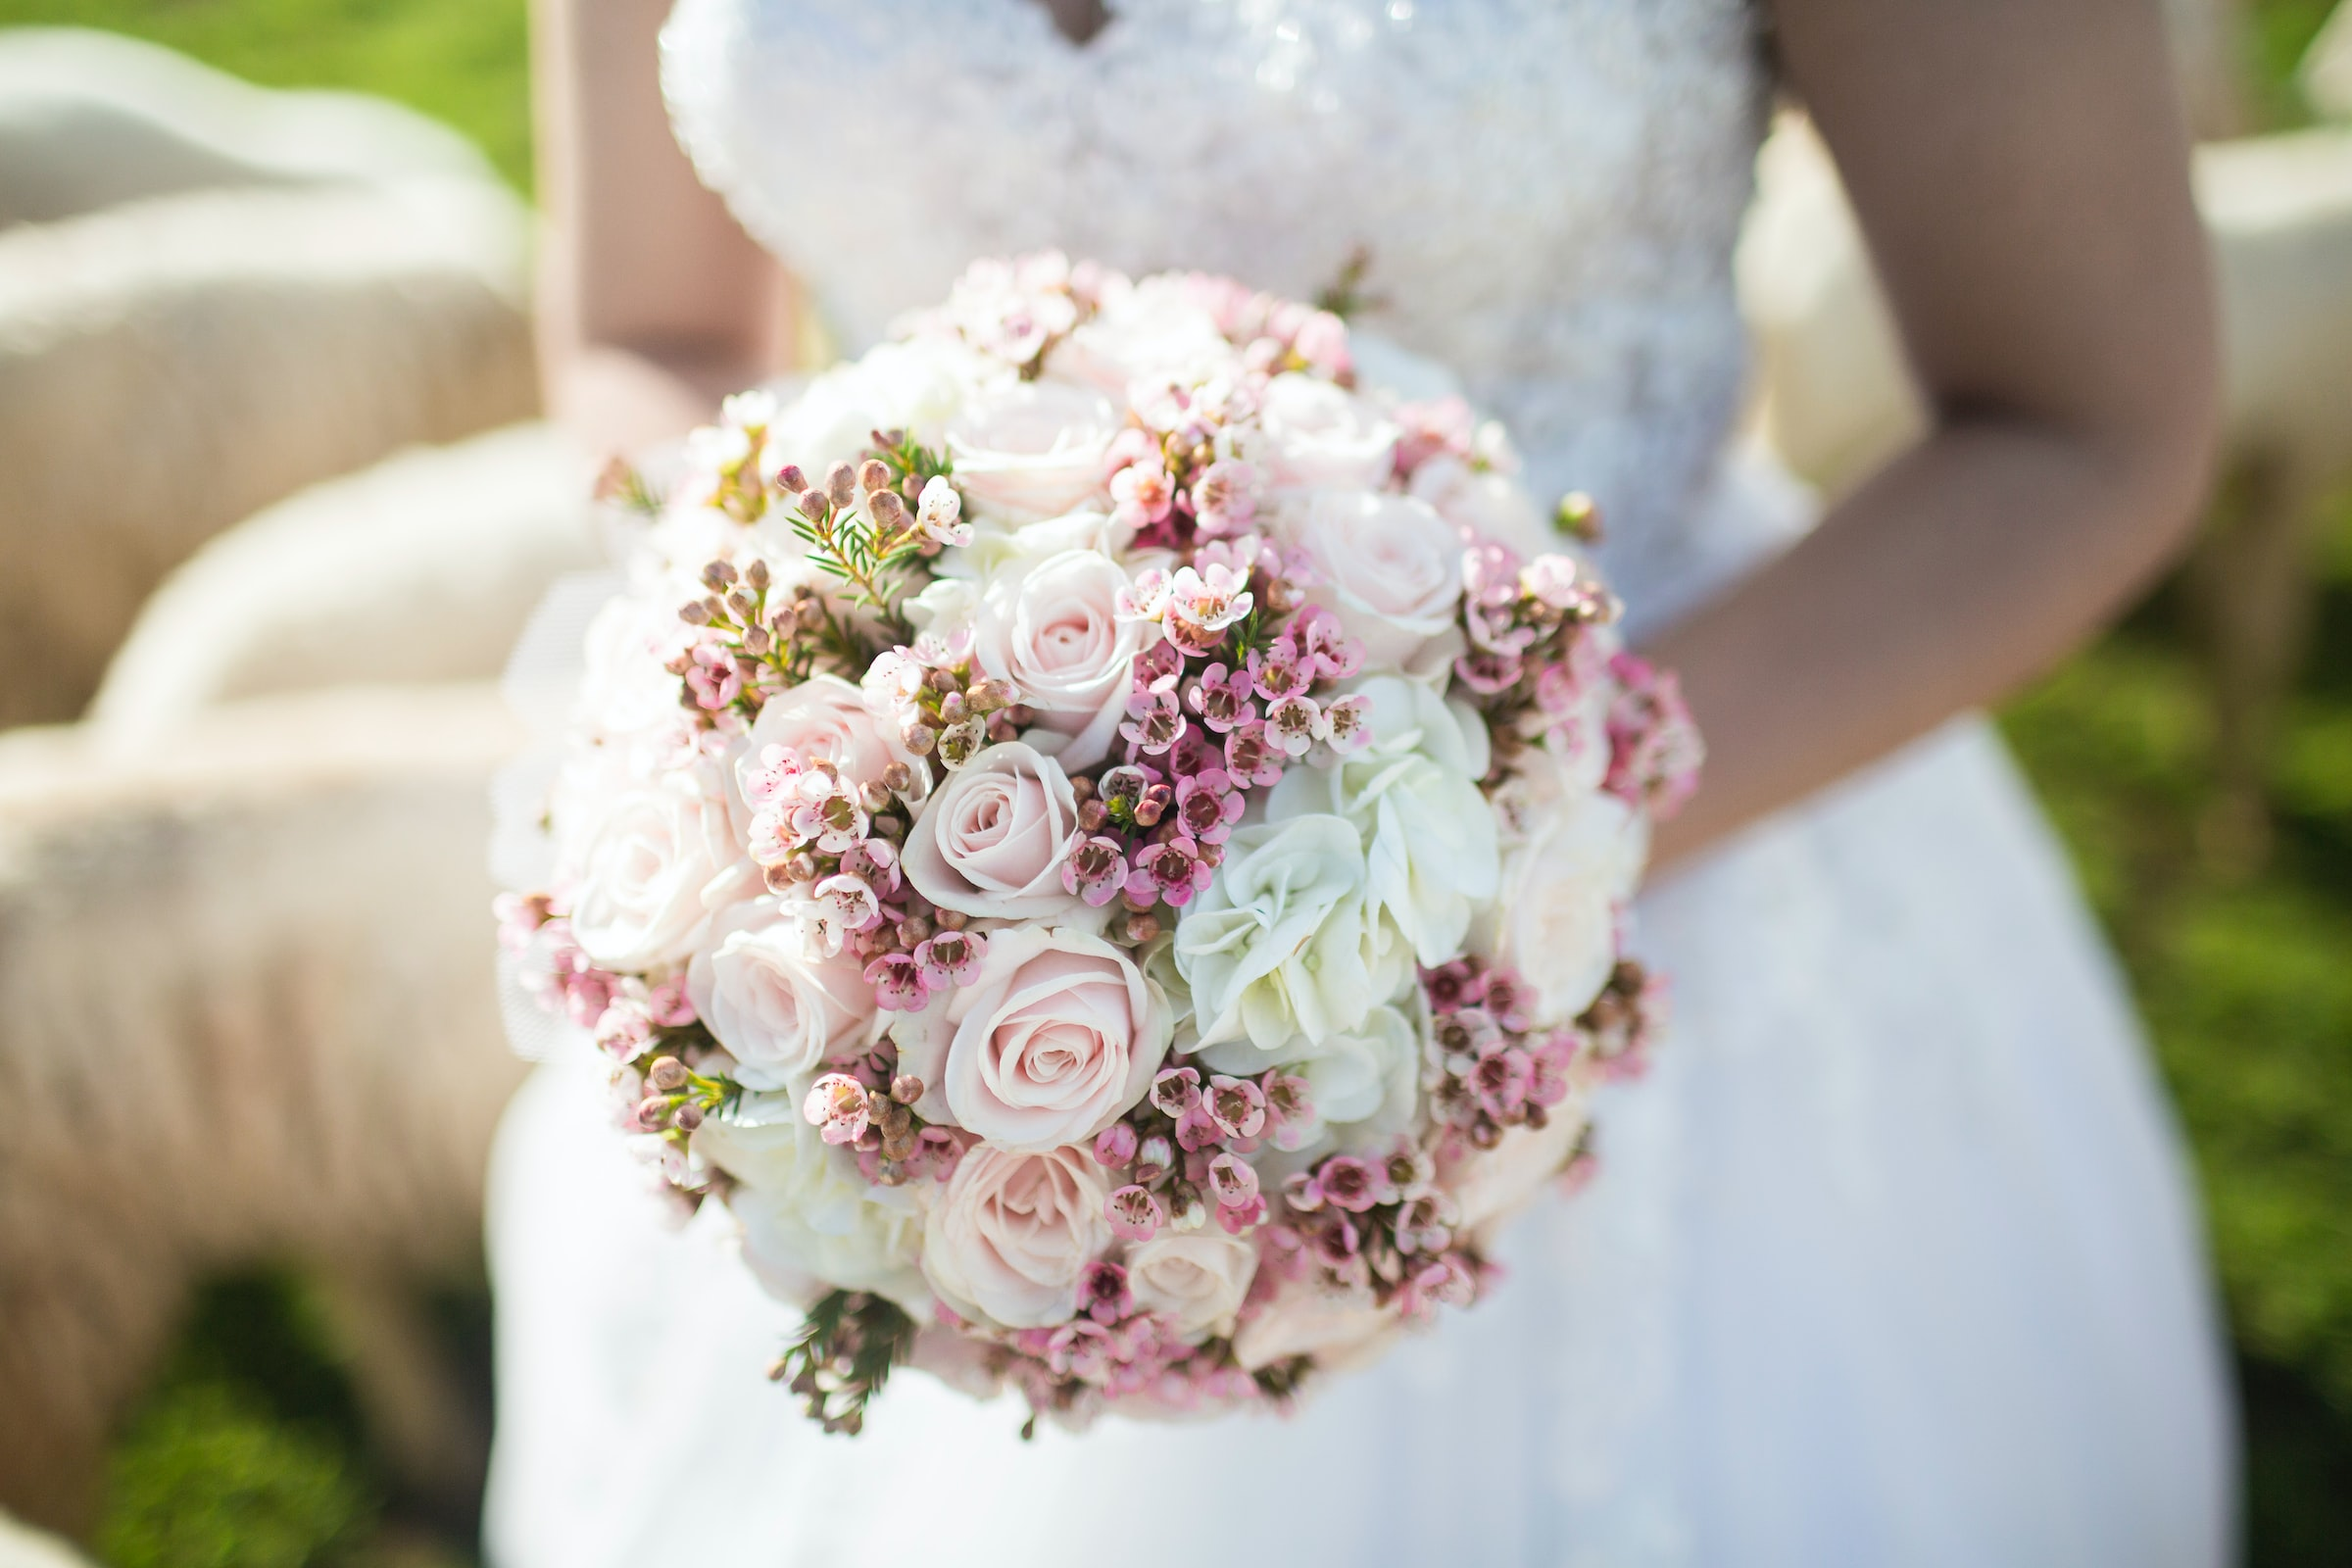
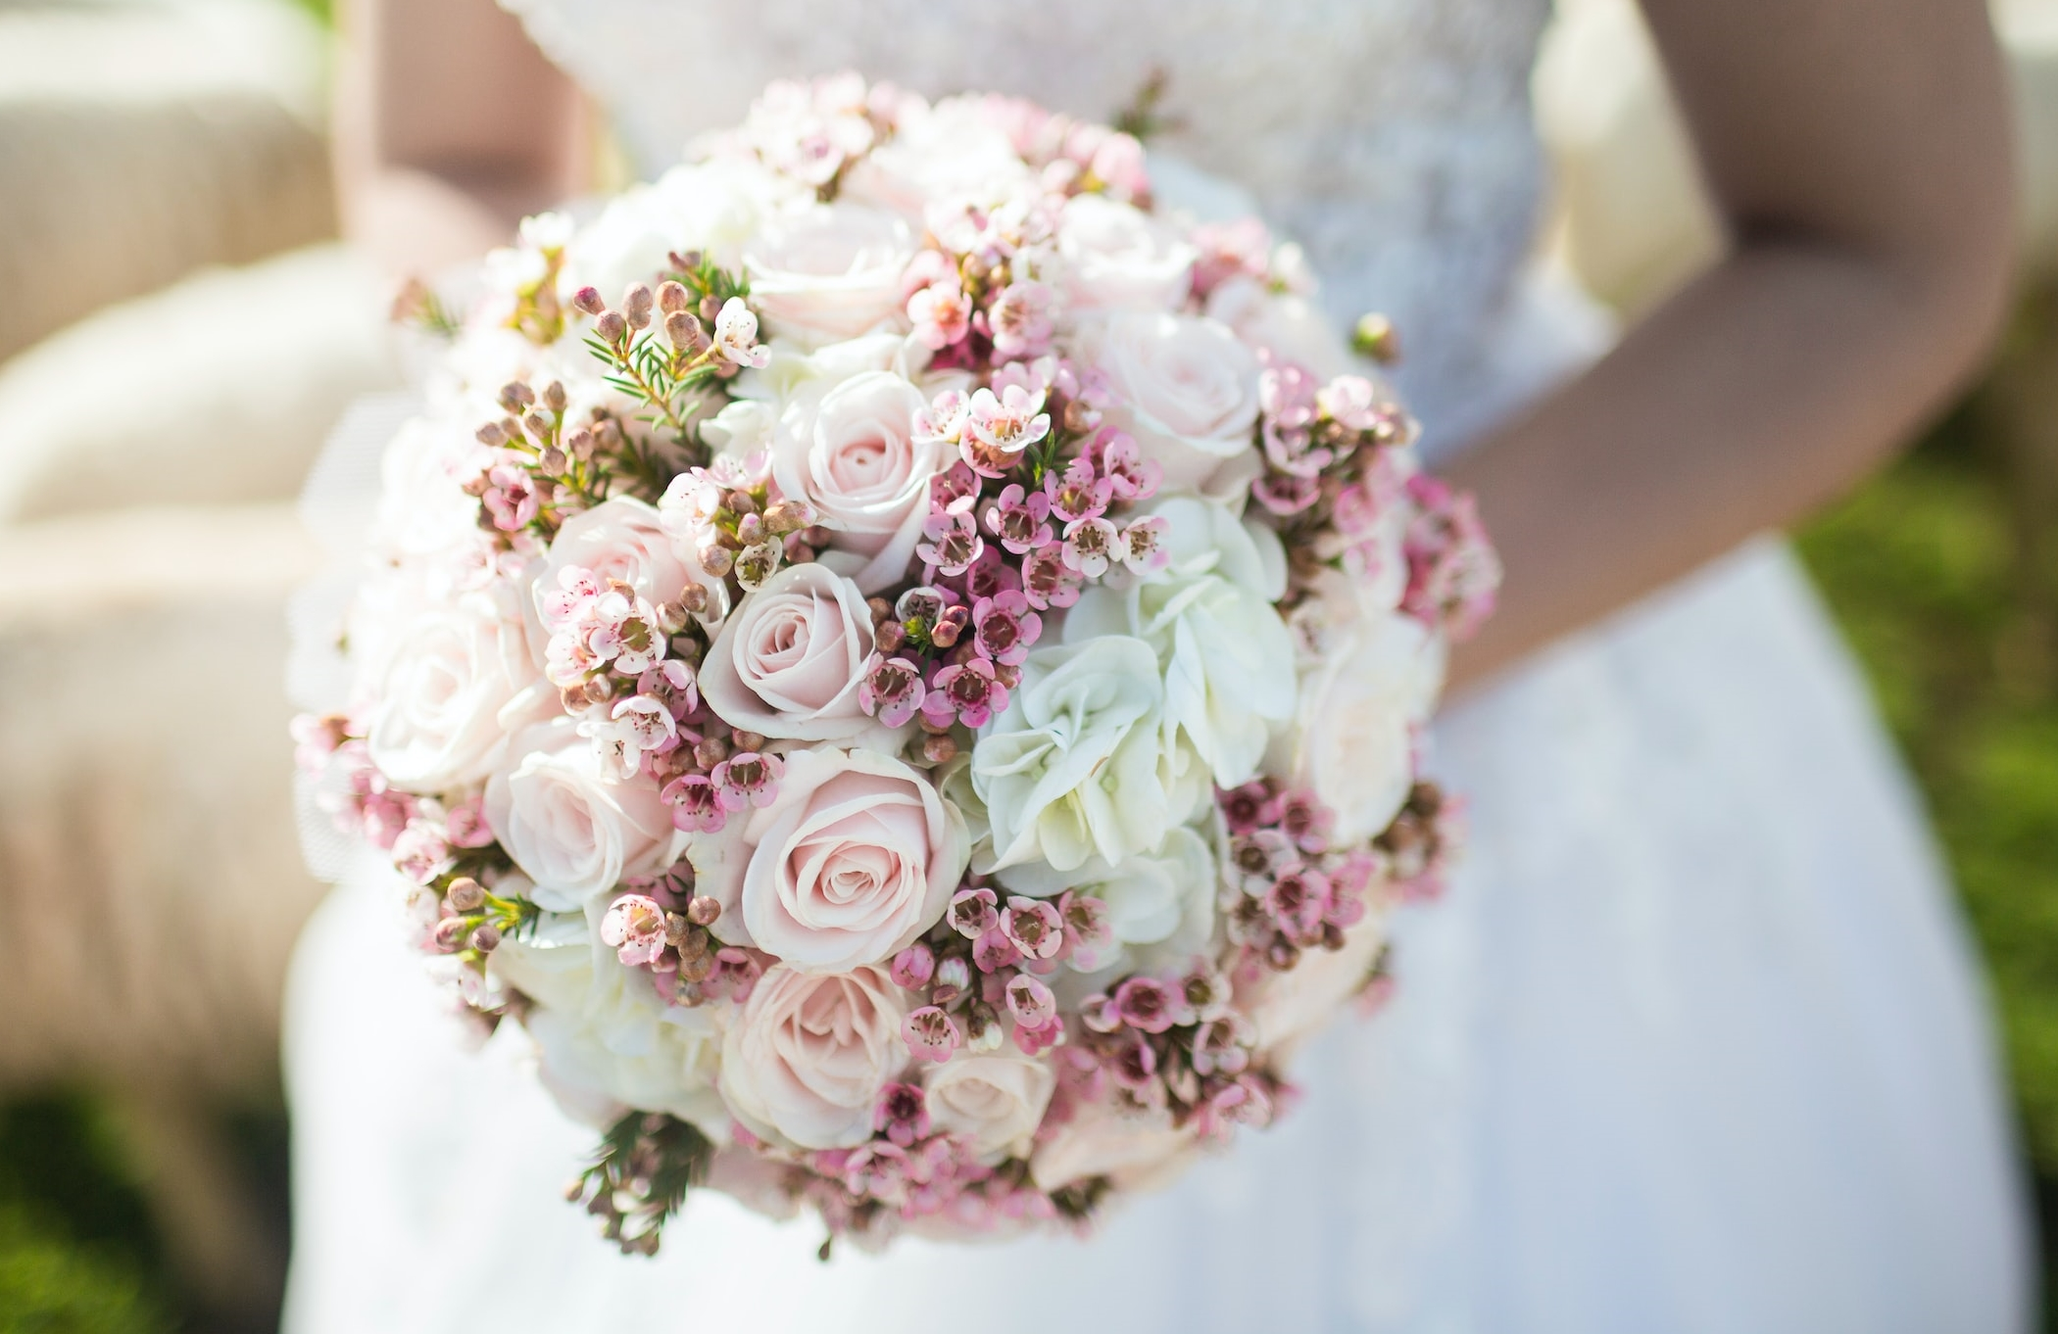
mobile and tablet  responsive for home

diff --git a/index.html b/index.html
@@ -125,43 +125,51 @@
         <div class="carousel-inner">
           <div class="carousel-item active" data-bs-interval="10000">
             <img
-              src="./images/home/wedding_bunch_desktop.jpg"
-              class="desktop-img  w-100"
+              src="./images/home/wedding_bunch_desktop2.jpg"
+              class="desktop-img w-100"
               alt="composition florale pour un mariage"
             />
             <img
               src="./images/home/wedding_bunch_mobile.jpg"
-              class="mobile-img  w-100"
+              class="mobile-img w-100"
               alt="composition florale pour un mariage"
             />
-            <div class="carousel-caption d-none d-md-block">
+            <div class="overlay"></div>
+            <div class="carousel-caption d-md-block">
               <h1>Evènements</h1>
               <h6>Composition florale pour un mariage - Marseille.</h6>
             </div>
           </div>
           <div class="carousel-item" data-bs-interval="2000">
             <img
-              src="./images/artFloral_home.jpg"
-              class="d-block w-100"
-              alt="..."
+              src="./images/home/art_floral_desktop.jpg"
+              class="desktop-img w-100"
+              alt="Composition florale champêtre"
             />
-            <div class="carousel-caption d-none d-md-block">
+            <img
+              src="./images/home/art_floral_mobile.jpg"
+              class="mobile-img w-100"
+              alt="Composition florale champêtre"
+            />
+            <div class="overlay"></div>
+            <div class="carousel-caption d-md-block">
               <h1>Art floral</h1>
-              <h6>Composition floral inspirée de l'Ikebena</h6>
+              <h6>Composition florale champêtre</h6>
             </div>
           </div>
           <div class="carousel-item">
             <img
-              src="./images/home/garden_desktop.jpg"
-              class="desktop-img  w-100"
+              src="./images/home/garden_desktop2.jpg"
+              class="desktop-img w-100"
               alt="conception jardin à Phnom Penh"
-            />            
+            />
             <img
               src="./images/home/garden_mobile.jpg"
               class="mobile-img w-100"
               alt="conception jardin à Phnom Penh"
             />
-            <div class="carousel-caption d-none d-md-block">
+            <div class="overlay"></div>
+            <div class="carousel-caption d-md-block">
               <h1>Conception jardin</h1>
               <h6>Conception d'un jardin à Phnom Penh.</h6>
             </div>

diff --git a/css/style.css b/css/style.css
@@ -13,9 +13,28 @@ body {
   font-family: "Montserrat", sans-serif !important;
 }
 
+@media (min-width: 1400px) {
+  .container {
+    max-width: 1140px !important;
+  }
+}
+
 /*  CSS home section */
+
 #home h1 {
   font-size: 80px !important;
+}
+
+.overlay {
+  position: absolute;
+  right: 0;
+  left: 0;
+  top: 0;
+  bottom: 0;
+  background: linear-gradient(
+    rgba(255, 255, 255, 0) 60%,
+    rgba(57, 56, 56) 100%
+  );
 }
 
 .desktop-img {
@@ -30,9 +49,14 @@ body {
   .desktop-img {
     display: none;
   }
-
   .mobile-img {
     display: block;
+  }
+}
+
+@media (max-width: 767px) {
+  #home h1 {
+    font-size: 30px !important;
   }
 }
 /*   FIN CSS home section */
